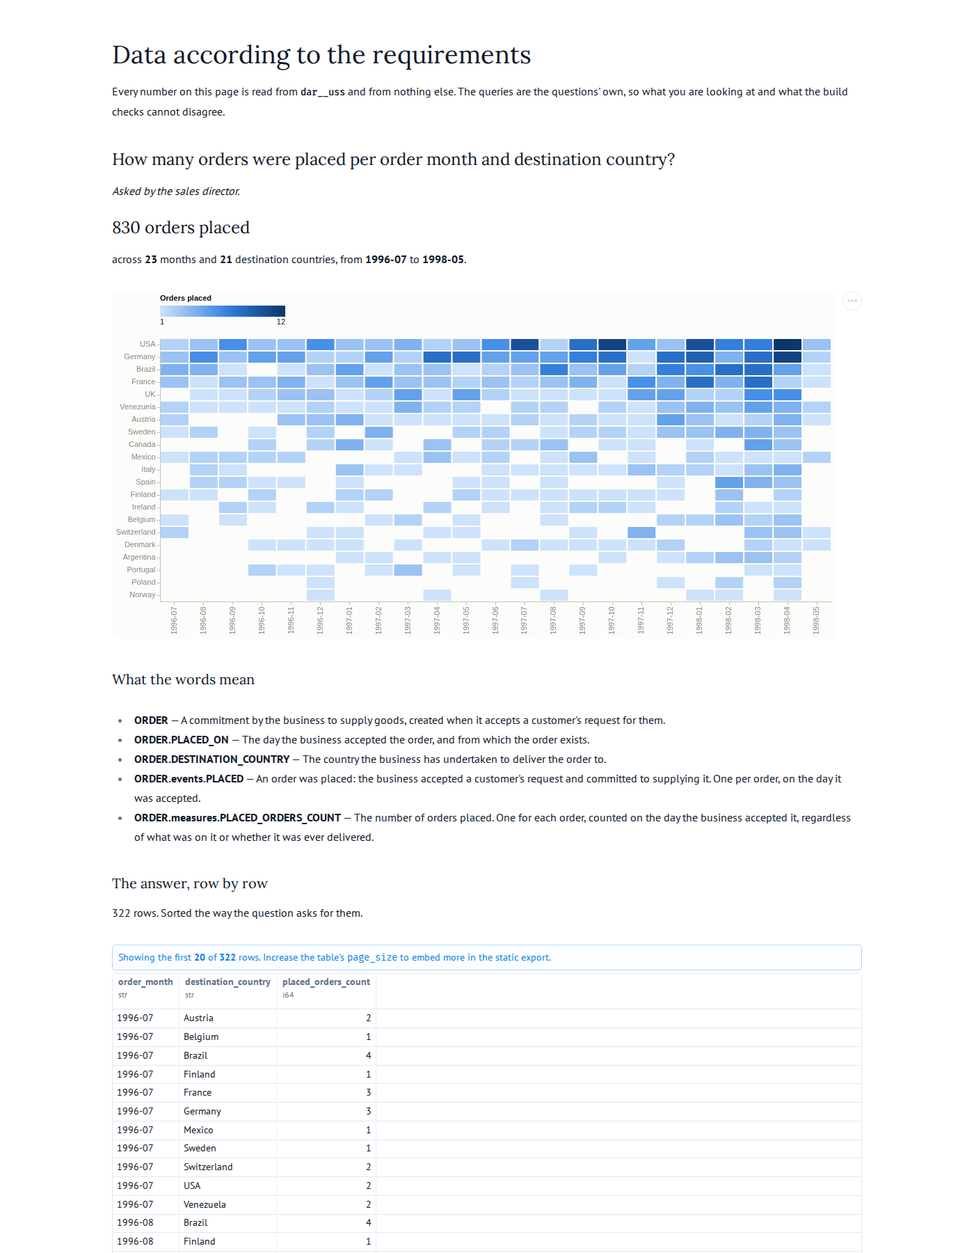
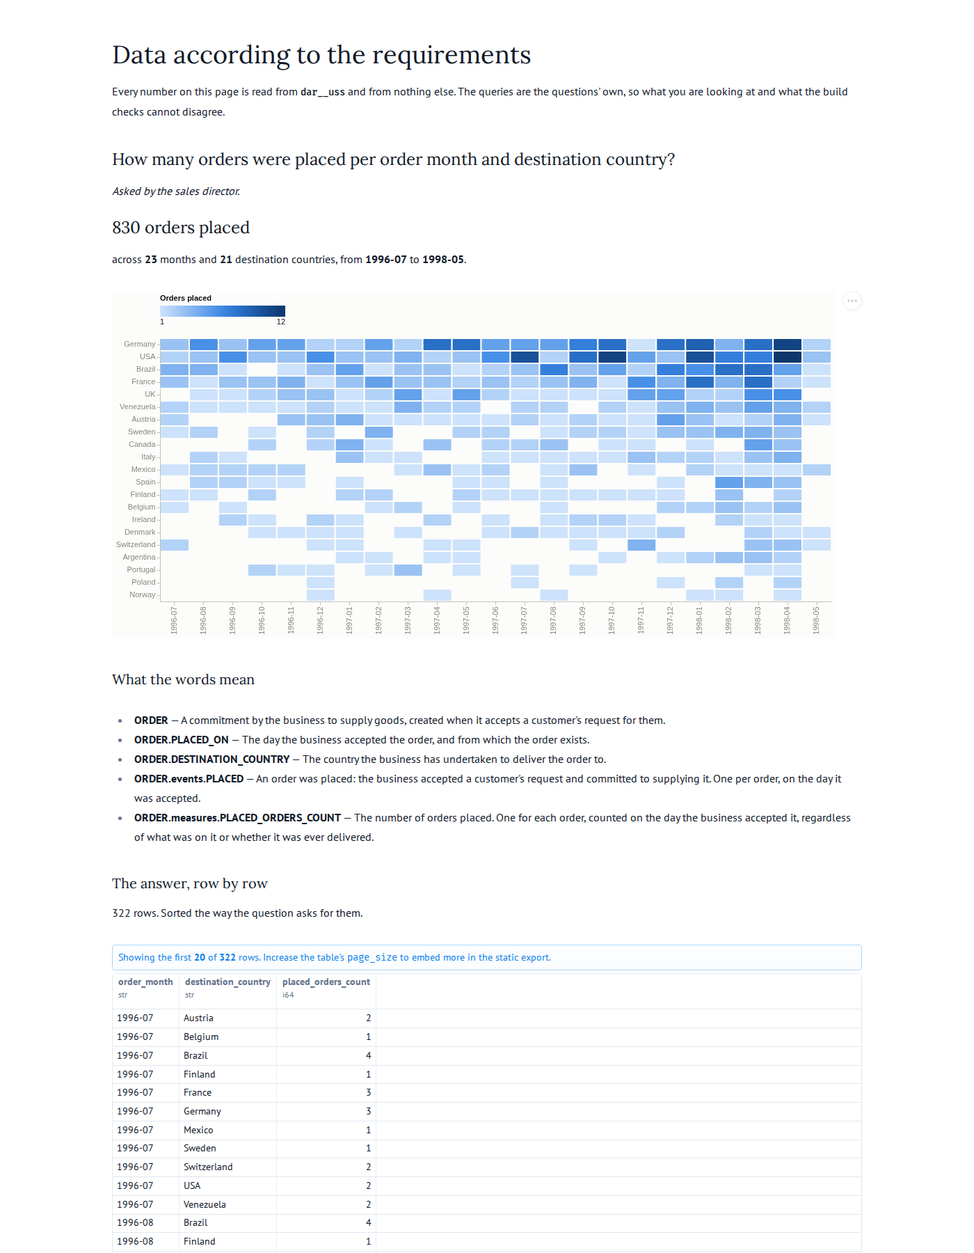
fix(repo): make the slice's own assertions capable of failing, and its records true
The verification's recurring theme was not wrong code. It was tests and records that could not
have noticed if the code were wrong.

Three mutations to the version CTE -- the piece of SQL that picks which version of an entity an
event is measured on -- left the whole suite green: row_number to rank, DESC to ASC, and adding
the timestamp to the partition, which makes every retained version a bridge row. The three
assertions guarding it were whole-file substrings, every one of which the INHERIT CTE also
satisfies, so they were about a different window than the one they named. And none of it is
visible in the warehouse, because every entity has exactly one version today. That is the
failure mode ADR 0006 warned about in as many words.

Measure ownership was pinned the same way, and slice 3 is the first slice where it matters,
because ORDER now owns four measures across two stages. Deciding ownership by entity rather
than by event emitted a column the branch's own CTE does not have -- SQL that cannot bind --
and the suite stayed green, because the NULL casts the test looked for were still emitted by
some other branch. Rotating the values within a branch while leaving the aliases in contract
order put a count into a sum column, also green. Both are now asserted as value-to-alias pairs,
per branch, per measure.

Two ADR Confirmation sections named tests that could not fail for the reason given. One claimed
[…]

diff --git a/tests/test_uss.py b/tests/test_uss.py
@@ -91,10 +91,29 @@ def test_a_count_measure_is_one_per_row_and_a_sum_measure_is_its_attribute():
 
 
 def test_an_event_reads_the_history_view_and_keeps_the_latest_version():
-    sql = bridge()
-    assert 'dab."view_PARENT_hist"' in sql
-    assert "row_number() OVER (" in sql
-    assert "ORDER BY" in sql and "eff_tmstp DESC" in sql
+    """Asserted of the version CTE, whole.
+
+    Three whole-file substrings said nothing about it: the INHERIT CTE satisfies every one of
+    them, so the assertions were about a different window than the one they named. All three
+    mutations that matter -- row_number to rank, DESC to ASC, and adding eff_tmstp to the
+    partition -- left the suite green, and none is observable in the warehouse today because
+    every entity has exactly one version.
+    """
+    picked = cte_of(bridge(), "happened__version")
+    assert 'dab."view_PARENT_hist"' in picked
+    window = re.search(r"QUALIFY (\w+)\(\) OVER \((.*?)\) = 1", picked, re.DOTALL)
+    assert window, "the versions are ranked"
+    assert window.group(1) == "row_number", (
+        "rank() returns every tied row, and the engine writes a closing row sharing eff_tmstp"
+    )
+    partition = re.search(r"PARTITION BY ([^\n]+)", window.group(2))
+    assert partition and partition.group(1).strip() == 'revision."PARENT_key"', (
+        "one version per entity. Adding the timestamp makes row_number() return 1 for every "
+        "version, so every version becomes a bridge row"
+    )
+    assert re.search(r"ORDER BY\s+revision\.eff_tmstp DESC", window.group(2)), (
+        "the LATEST version. Ascending keeps the oldest, which this test is named against"
+    )
 
 
 def test_an_entity_with_no_date_for_the_event_has_no_row_for_it():
@@ -139,10 +158,30 @@ def test_an_event_without_a_definition_is_refused():
 
 
 def test_a_stage_that_does_not_own_a_measure_emits_a_typed_null_for_it():
-    sql = bridge()
-    assert "cast(NULL AS BIGINT) AS _measure__parent__finished_parents_count" in sql
-    assert "cast(NULL AS BIGINT) AS _measure__parent__happened_parents_count" in sql
-    assert "cast(NULL AS DECIMAL(28, 8)) AS _measure__parent__size_parents_units" in sql
+    """Every branch, every measure, paired with the value it carries -- not counted.
+
+    Whole-file substrings cannot see ownership: the NULL casts they look for are emitted by
+    SOME branch whatever the generator decides, so deciding ownership by entity rather than by
+    event left the suite green while emitting a column its own CTE does not have. And rotating
+    the value expressions within one branch, leaving the aliases in contract order, emits valid
+    SQL that puts a count into a sum column -- green until a build compares two answers.
+    """
+    _, uss = plan()
+    for event in uss.events:
+        branch = branch_of(bridge(), event.name)
+        for owner, measure, column in uss.measure_columns():
+            value = re.search(rf"^\s*(.+?) AS {re.escape(column)},?$", branch, re.MULTILINE)
+            assert value, f"{event.name} emits no {column}"
+            if owner is event:
+                assert value.group(1) == f"{event.name}.{column}", (
+                    f"{event.name} owns {column}, so it carries its own value for it -- and "
+                    f"carries it under its own name, not another measure's"
+                )
+            else:
+                assert value.group(1) == f"cast(NULL AS {measure.sql_type})", (
+                    f"{event.name} does not own {column}, so it emits a typed NULL. A zero "
+                    f"here would be counted; a value from elsewhere would be multiplied"
+                )
 
 
 def test_every_branch_emits_the_contract_columns_in_the_contract_order():
@@ -432,10 +471,19 @@ def test_two_events_on_one_entity_may_not_name_the_same_measure():
 def test_the_same_measure_id_on_two_different_entities_is_still_accepted():
     """The column already carries the entity, so those two do not collide. A refusal that
     caught them would forbid the ordinary case to prevent the rare one.
+
+    Asserted against a fixture that actually contains the case. The version of this test that
+    shipped with ADR 0008 read the ordinary fixture, whose measure ids are all distinct, and
+    asserted that its columns were unique -- a statement about the fixture, not the refusal.
+    Keying the refusal on the measure id alone, which is precisely what the record says it
+    must not do, left it green.
     """
-    _, uss = plan()
-    columns = [c for _, _, c in uss.measure_columns()]
-    assert len(columns) == len(set(columns))
+    model, _ = plan()
+    shared = read_uss(FIXTURES / "shared_measure_id_across_entities.yaml", model)
+    columns = [column for _, _, column in shared.measure_columns()]
+    assert "_measure__parent__happened_parents_count" in columns
+    assert "_measure__child__happened_parents_count" in columns
+    assert len(columns) == len(set(columns)), "the entity in the name is what keeps them apart"
 
 
 def test_every_declared_measure_keeps_its_own_definition():
@@ -448,6 +496,13 @@ def test_every_declared_measure_keeps_its_own_definition():
     model, uss = plan()
     declared = [(e.entity_id, m.id, m.definition) for e in uss.events for m in e.measures]
     carried = definitions(model, uss)
-    assert len({(entity, measure) for entity, measure, _ in declared}) == len(declared)
+    # Counted against what the glossary actually returns, not against the same list twice.
+    # The version of this that shipped with ADR 0008 compared `declared` with itself, so it
+    # could not fail on the count the record says it guards.
+    measures = [token for token in carried if ".measures." in token]
+    assert len(measures) == len(declared), (
+        "one entry per declared measure. Two sharing a token means one definition replaced "
+        "the other, which is the failure nothing else reports"
+    )
     for entity, measure, definition in declared:
         assert carried[f"{entity}.measures.{measure}"] == definition

diff --git a/destinations/app.py b/destinations/app.py
@@ -155,7 +155,12 @@ def _(INK, MUTED, SEQUENTIAL, SURFACE, a1, alt, mo, pl, q1, shown):
     order = (
         a1.group_by("destination_country")
         .agg(pl.col("placed_orders_count").sum())
-        .sort("placed_orders_count", descending=True)["destination_country"]
+        # Ties broken by name. Without it the order is whatever the sort happened to
+        # produce, so the picture a slice was accepted on changes between runs from identical
+        # data -- and a reviewer diffing the PNG cannot tell a re-sorted tie from a new answer.
+        .sort(["placed_orders_count", "destination_country"], descending=[True, False])[
+            "destination_country"
+        ]
         .to_list()
     )
 
@@ -377,8 +382,9 @@ def _(a2, mo, q2, shown):
 
 
 @app.cell
-def _(answers, asked, mo, pl, shown):
-    q3 = asked[2]
+def _(a1, answers, asked, mo, pl, shown):
+    q3_placed = int(a1["placed_orders_count"].sum())
+    q3 = asked[2] if len(asked) > 2 else asked[-1]
     a3 = answers[q3.id].with_columns(
         pl.col("ship_lag_orders_days").cast(pl.Float64),
         # The division the question deliberately does not store. Conventions section 2: an
@@ -391,6 +397,12 @@ def _(answers, asked, mo, pl, shown):
 
     shipped = int(a3["shipped_orders_count"].sum())
     waited = float(a3["ship_lag_orders_days"].sum())
+    # Read from the data, so it can be zero, and a page that divides by it would take the
+    # whole render down rather than this one question.
+    each = f"{waited / shipped:.1f} days each" if shipped else "nothing shipped"
+    # Counted rather than asserted. Every other number on this page is computed, and a
+    # hardcoded one on the artefact a slice is accepted on goes quietly wrong on the next load.
+    unshipped = int(q3_placed - shipped) if q3_placed else 0
 
     shown(
         q3,
@@ -400,15 +412,15 @@ def _(answers, asked, mo, pl, shown):
 
             *Asked by the {q3.persona.lower()}.*
 
-            ## {shipped:,} orders out, {waited / shipped:.1f} days each
+            ## {shipped:,} orders out, {each}
 
-            on average across **{len(a3)}** months. Twenty-one orders are missing from this
-            entirely, because they have never shipped -- they are absent rather than counted
-            as having taken no time.
+            on average across **{len(a3)}** months. **{unshipped}** orders are missing from
+            this entirely, because they have never shipped -- they are absent rather than
+            counted as having taken no time.
             """
         ),
     )
-    return a3, q3, shipped, waited
+    return a3, each, q3, q3_placed, shipped, unshipped, waited
 
 
 @app.cell

diff --git a/src/adss/checks.py b/src/adss/checks.py
@@ -9,6 +9,7 @@ the linter sees it and so the machinery works for a source it has never met.
 
 from __future__ import annotations
 
+from collections.abc import Sequence
 from dataclasses import dataclass
 
 import duckdb
@@ -32,6 +33,18 @@ class Finding:
 
 def _rows(connection: duckdb.DuckDBPyConnection, sql: str) -> list[tuple[object, ...]]:
     return [tuple(row) for row in connection.execute(without_comments(sql)).fetchall()]
+
+
+def inexact(rows: Sequence[Sequence[object]]) -> list[str]:
+    """The inexact types among these values, if any. Named so a test can reach it.
+
+    A bool is an int in Python and exact, so it is not one of these; a Decimal is exact by
+    construction; a float is not, and is the only one that can make two answers computed the
+    same way disagree.
+    """
+    return sorted(
+        {type(value).__name__ for row in rows for value in row if isinstance(value, float)}
+    )
 
 
 def _columns(connection: duckdb.DuckDBPyConnection, name: str) -> list[str]:
@@ -167,14 +180,7 @@ def run_checks(project: Project, connection: duckdb.DuckDBPyConnection) -> list[
         # same three reversed to 0.6 -- so two queries could sum one measure in two orders and
         # disagree by a bit, on some machines, some of the time. There is no such value today
         # and this is what says so. ADR 0007.
-        loose = sorted(
-            {
-                type(value).__name__
-                for row in (*control, *answer)
-                for value in row
-                if isinstance(value, float)
-            }
-        )
+        loose = inexact((*control, *answer))
         findings.append(
             Finding(
                 f"{question.id}: both answers hold only exact values",

diff --git a/tests/test_exactness.py b/tests/test_exactness.py
@@ -1,0 +1,39 @@
+"""The acceptance check compares two answers row by row, by value. That is exact or it is not.
+
+A float makes the comparison order-dependent rather than merely imprecise: DuckDB's sum over
+doubles is not associative, so two queries summing one measure in two orders disagree by a bit
+-- on some machines, some of the time. The check that says no answer holds one is the only
+thing standing between that and a failure nobody can reproduce. ADR 0007.
+"""
+
+from decimal import Decimal
+
+import pytest
+
+from adss.checks import inexact
+
+
+def test_an_answer_of_counts_and_exact_decimals_is_accepted():
+    assert inexact([("1996-07", 17, Decimal("109.00000000")), ("1996-08", 23, None)]) == []
+
+
+@pytest.mark.parametrize(
+    "value",
+    [8.49, float("nan"), float("inf"), 0.0, -1.5],
+)
+def test_any_float_at_all_is_reported(value: float):
+    assert inexact([("a", 1, value)]) == ["float"]
+
+
+def test_a_bool_is_not_inexact():
+    """True is an int in Python, and an int is exact. Refusing it would refuse a flag."""
+    assert inexact([(True, False)]) == []
+
+
+def test_it_looks_at_every_row_and_not_only_the_first():
+    """A ratio that is whole in the first month and not in the second is the realistic shape."""
+    assert inexact([("a", 1), ("b", 2), ("c", 8.49)]) == ["float"]
+
+
+def test_an_empty_answer_reports_nothing():
+    assert inexact([]) == []

diff --git a/tests/test_relationship_rules.py b/tests/test_relationship_rules.py
@@ -106,7 +106,7 @@ def test_a_function_is_part_of_a_key_expression_shape_and_not_a_name_to_be_strip
     The rule exists to stop pairs that join to nothing, and a function changes the value as
     surely as a cast does -- so anonymising its name would be exactly the wrong half to drop.
     """
-    assert key_shape("customer_id") != key_shape("lpad(customer_id, 5, '0')")
+    assert key_shape("a") != key_shape("lpad(a, 5, '0')")
     assert key_shape("lpad(a, 5, '0')") == key_shape("lpad(b, 5, '0')"), "the column may differ"
     assert key_shape("lpad(a, 5, '0')") != key_shape("rpad(a, 5, '0')"), "the function may not"
     assert key_shape("cast(a AS VARCHAR)") != key_shape("a"), "and neither may the cast"

diff --git a/docs/conventions.md b/docs/conventions.md
@@ -89,8 +89,8 @@ kinds of wrong mapping without complaint, and two of them corrupt data silently.
 | M2 | Exactly **one** `primary_keys` entry, whose VARCHAR result is the entity key: a bare string column, `cast(col AS VARCHAR)`, or a `concat` of casts with a separator. | Two entries are two *alternate identifiers* to daana, not a composite key, and that mode cannot be undone once loaded. A `concat` without a separator makes `'A1' + '23'` and `'A12' + '3'` the same key. | Hard rule |
 | M3 | `ingestion_strategy: FULL_LOG`. `FULL` is permitted only against a source view **proven** to hold exactly one row per key, and the proof is a data check, not a claim. | Observed: `FULL` against a multi-row-per-key source inserts one duplicate `_desc` row per execute, forever, and every presentation view hides it. Our staged change log is multi-row-per-key by construction, so `FULL` is the wrong default here and the failure is invisible. | Hard rule |
 | M4 | `entity_effective_timestamp_expression: extracted_at`. | Blueprint B3. The effective time of a fact is when DAS observed it. Anything else dates the fact by something that is not about the fact — and no source here reports when it changed. | Hard rule |
-| M5 | An attribute expression reads its own row: a column, a cast, a `CASE` over columns of that row, or **arithmetic over columns of that row** — including a same-row function such as `date_diff`. Never a subquery, never an aggregate, never a reach into another table. | An expression that reaches beyond the row is a join, and every join must come from a declared relationship. Arithmetic over one row produces a value the row already implies, so it needs no definition of its own beyond the attribute it lands in. | Hard rule |
-| M5a | What arithmetic does **not** cover: a `CASE` on *values*, a default, a coalesce that invents one, a filter, a bucket, or anything that changes the grain. Those go in the model as an attribute with a definition. | Each of them is a choice somebody made, and a choice needs a definition beside it. The mechanical check cannot tell arithmetic from a bucket — it is four keywords and seven function names — so this line is the rule and the regex is only its cheapest half. ADR 0007. | Hard rule |
+| M5 | An attribute expression reads its own row: a column, a cast, or **arithmetic over columns of that row** — including a same-row function such as `date_diff`. Never a subquery, never an aggregate, never a reach into another table. | An expression that reaches beyond the row is a join, and every join must come from a declared relationship. Arithmetic over one row produces a value the row already implies, so it needs no definition of its own beyond the attribute it lands in. | Hard rule |
+| M5a | What arithmetic does **not** cover: a `CASE`, a default, a coalesce that invents one, a filter, a bucket, or anything that changes the grain. Those go in the model as an attribute with a definition. | Each of them is a choice somebody made, and a choice needs a definition beside it. Every `CASE` is over columns *and* on their values, so listing it as permitted above and forbidden here decided nothing; by this rule's own test a `CASE` is always a choice. The mechanical check cannot tell arithmetic from a bucket — it is four keywords and seven function names — so this line is the rule and the regex is only its cheapest half. ADR 0007. | Hard rule |
 | M6 | A relationship's `id` is `<SRC>_<NAME>_<TGT>`; its `source_table` is byte-identical to a `table` in its mapping; its target expression has the same **shape** as the target entity's own key expression — the same casts and the same functions, though the column may be named differently. Every edge the model declares is loaded by some mapping, and every edge a mapping loads is declared by the model. | A mismatched `source_table` is skipped silently, and a key of a different shape produces pairs that join to nothing. Neither says anything at load time. The shape is what matters and the spelling is not: a foreign key is routinely named differently from the primary key it points at, and it is the casting and the functions that decide the VARCHAR the two sides produce. | Hard rule |
 | M7 | Every mapped table carries at least one attribute. | daana refuses to deploy an entity with none, and the failure arrives at deploy rather than at review. | Hard rule |
 

diff --git a/docs/adr/0007-a-derived-value-is-modelled-where-two-vocabularies-are-bound.md b/docs/adr/0007-a-derived-value-is-modelled-where-two-vocabularies-are-bound.md
@@ -97,18 +97,24 @@ difference between the option chosen there and the one rejected.
 
 ### The line this record draws
 
-M5 permits an expression that reads its own row, and its prose enumerates three forms — a column,
+M5 permits an expression that reads its own row, and its prose enumerated three forms — a column,
 a cast, a `CASE` over columns of that row. A subtraction of two dates is none of them, and passes
 only because M5's mechanical check is four keywords and seven function names. Relying on that
 silently is the quiet exception §11 rules out. So the rule, in force from here:
 
-> **Arithmetic over columns of the same row is permitted in a mapping.** A `CASE` on *values*, a
+> **Arithmetic over columns of the same row is permitted in a mapping.** A `CASE`, a
 > default, a coalesce that invents a value, a filter, a bucket, or anything that changes the grain
 > is not — those are meaning, and meaning belongs in the model as an attribute with a definition.
 
 Conventions §1.4 M5 is clarified to say so, per §11's first rung. The distinction is that
 arithmetic over one row produces a value the row already implies; the others produce a value
 somebody chose, and a choice needs a definition beside it.
+
+`CASE` moves to the forbidden side, and the first draft of this record had it on both. M5
+permitted "a `CASE` over columns of that row" and the rule above forbade "a `CASE` on *values*" —
+but every `CASE` is over columns and on their values at once, so the pair decided nothing and
+handed back exactly the argument this section exists to close. By the test above a `CASE` is
+always a choice.
 
 One trap belongs in the record because the error message misleads: `extract(DAY FROM (b - a))` is
 **refused** by M5's checker, because the regex matches the bare word `from` inside the expression.
@@ -143,9 +149,14 @@ schema: the question returns both additive measures and the page divides them. T
 `BIGINT` count or an exact `DECIMAL` sum, and the two answers are compared row by row as values.
 A float would break that comparison in a way no test would find on the machine that wrote it:
 DuckDB's `sum` over doubles is order-dependent, measured here as `[0.1, 0.2, 0.3]` summing to
-`0.6000000000000001` and the same three reversed to `0.6`. `tests/test_questions.py` pins that
-every question's answer holds only exact types, so the first float-valued measure fails a test
-rather than producing a disagreement that is not one.
+`0.6000000000000001` and the same three reversed to `0.6`.
+
+Two things guard it, and it is worth being exact about which catches what. `tests/test_exactness.py`
+pins the predicate — a float is reported, a `Decimal` and a `bool` are not, every row is looked
+at, not only the first. That runs on every commit. The predicate is then applied to both answers
+of every question by a data check in `run_checks`, which runs after `adss build` rather than in
+the gate — so a float-valued measure fails `adss check`, not `pytest`, and it fails on the
+*values* returned rather than on a column's declared type.
 
 What is **not** confirmed, and is recorded rather than claimed: nothing checks that
 `SHIP_LAG_DAYS` still equals the two dates it was derived from. Such a check is tautological

diff --git a/docs/adr/0008-a-measure-is-owned-by-an-event-and-named-for-an-entity.md b/docs/adr/0008-a-measure-is-owned-by-an-event-and-named-for-an-entity.md
@@ -102,12 +102,28 @@ should say so rather than emit an ambiguous one.
 * Bad, because the deeper mismatch stays: the generator still names by entity what it owns by
   event. This narrows the consequence to nothing rather than removing the cause
 
+### A correction to ADR 0002
+
+The same mismatch makes one sentence of ADR 0002's published column contract false, for the first
+time, in this slice. `_stage` is defined there as "the entity this row is a row *of*", and
+`_measure__<entity>__<measure>` is described as "non-null only on the owning stage". With two
+events on `ORDER` both branches emit `_stage = 'order'`, so all 809 shipped rows share a stage with
+the placed rows while carrying a null `_measure__order__placed_orders_count`. The column is
+non-null only on the owning **event**, which `_event` names and `_stage` does not. The contract's
+behaviour is right; that sentence describing it is not.
+
 ## Confirmation
 
 `tests/test_uss.py` asserts that two events on one entity declaring one measure id are refused,
 and that the same id on two *different* entities is still accepted — which is the case the
 refusal must not catch, since `_measure__<entity>__` already distinguishes those.
 
-A second test asserts that `definitions()` returns one entry per declared measure, so a future
-change that reintroduces a silent overwrite fails on the count rather than on somebody reading a
-page carefully. That is the assertion that would have caught this, and it did not exist.
+A second test asserts that `definitions()` returns one entry per declared measure, counting what
+the glossary returns rather than the declarations twice, so a silent overwrite fails on the count
+rather than on somebody reading a page carefully. That is the assertion that would have caught
+this, and it did not exist.
+
+Both of these were written wrong the first time and a review caught them, which is worth leaving in
+the record: the first named an acceptance case no fixture contained, and the second compared a list
+with itself. A Confirmation section that names a test is only as good as what the test actually
+constructs, and neither of these could have failed for the reason it was written down for.

diff --git a/docs/adr/0002-dar-is-one-generated-unified-star-schema.md b/docs/adr/0002-dar-is-one-generated-unified-star-schema.md
@@ -147,9 +147,13 @@ different order puts one measure's values silently into another measure's column
 still matches. Every emitter's output, laid out the way the generator lays it out, is run through
 the repository's own linter.
 
-Three data checks pin the engine behaviours this design rests on — that `_focal` and `_idfr` are
-still empty, and that `view_<E>_with_rel` still carries no relationship key — so a vendor change
-says so rather than quietly emptying the star schema. A fourth asserts `DESCRIBE dar__uss._bridge`
+Data checks pin the engine behaviours this design rests on, so a vendor change says so rather
+than quietly emptying the star schema: that `_focal` and `_idfr` are still empty; that
+`view_<E>_with_rel` is still a passthrough on a relationship's *source* side and gains exactly
+the source entity's columns on its *target* side; and that `v_<edge>` still hands over the raw,
+unranked pairs. The `with_rel` check first asserted the passthrough of *every* entity, which was
+true only while there were no relationships — ADR 0006 corrects the observation, and this
+section now describes the check that exists. A fourth asserts `DESCRIBE dar__uss._bridge`
 equals the plan on the real warehouse, and a fifth counts the description table directly, which is
 the only place an ingestion-strategy defect is visible.
 

diff --git a/docs/questions/03-shipped-orders-and-days-to-ship/question.md b/docs/questions/03-shipped-orders-and-days-to-ship/question.md
@@ -4,8 +4,8 @@ slice: 3
 status: green
 persona: Operations manager
 question: How many orders shipped per shipping month, and how many days did they take?
-aggregation: sum
-measure: ORDER.SHIPPED_ORDERS_COUNT
+aggregation: [count, sum]
+measure: [ORDER.SHIPPED_ORDERS_COUNT, ORDER.SHIP_LAG_ORDERS_DAYS]
 dimensions: [_calendar.month_label]
 time_grain: month
 defines:
